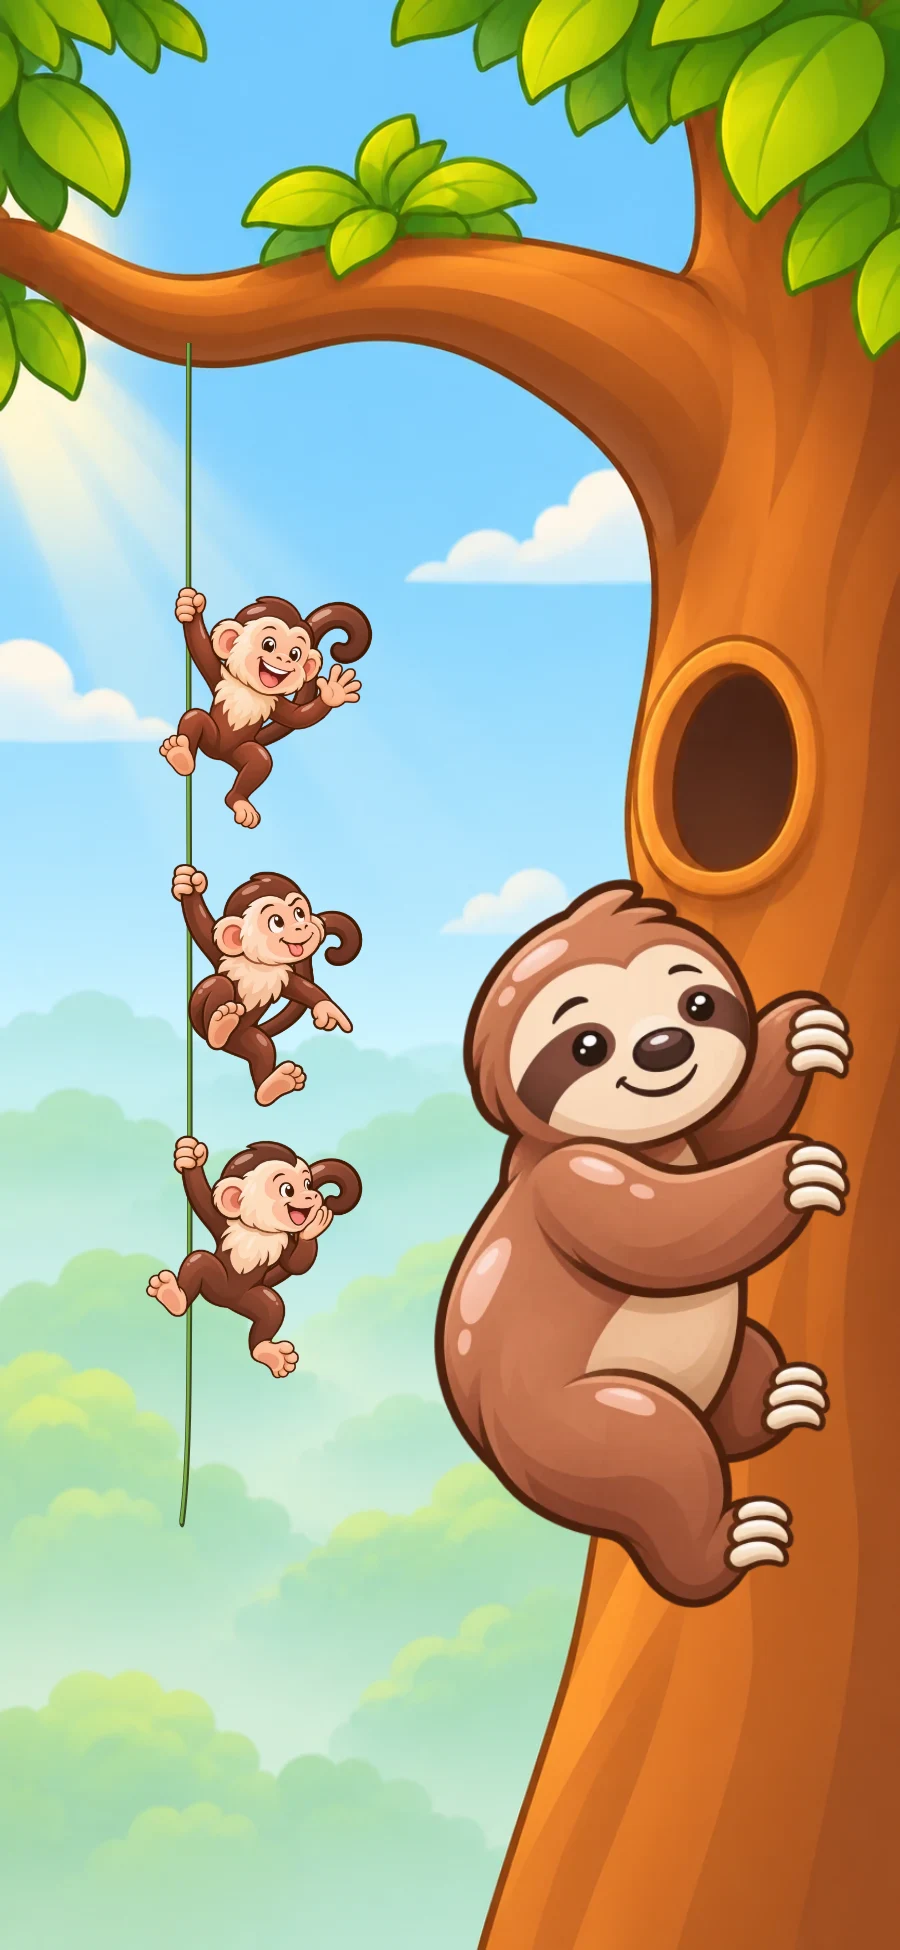
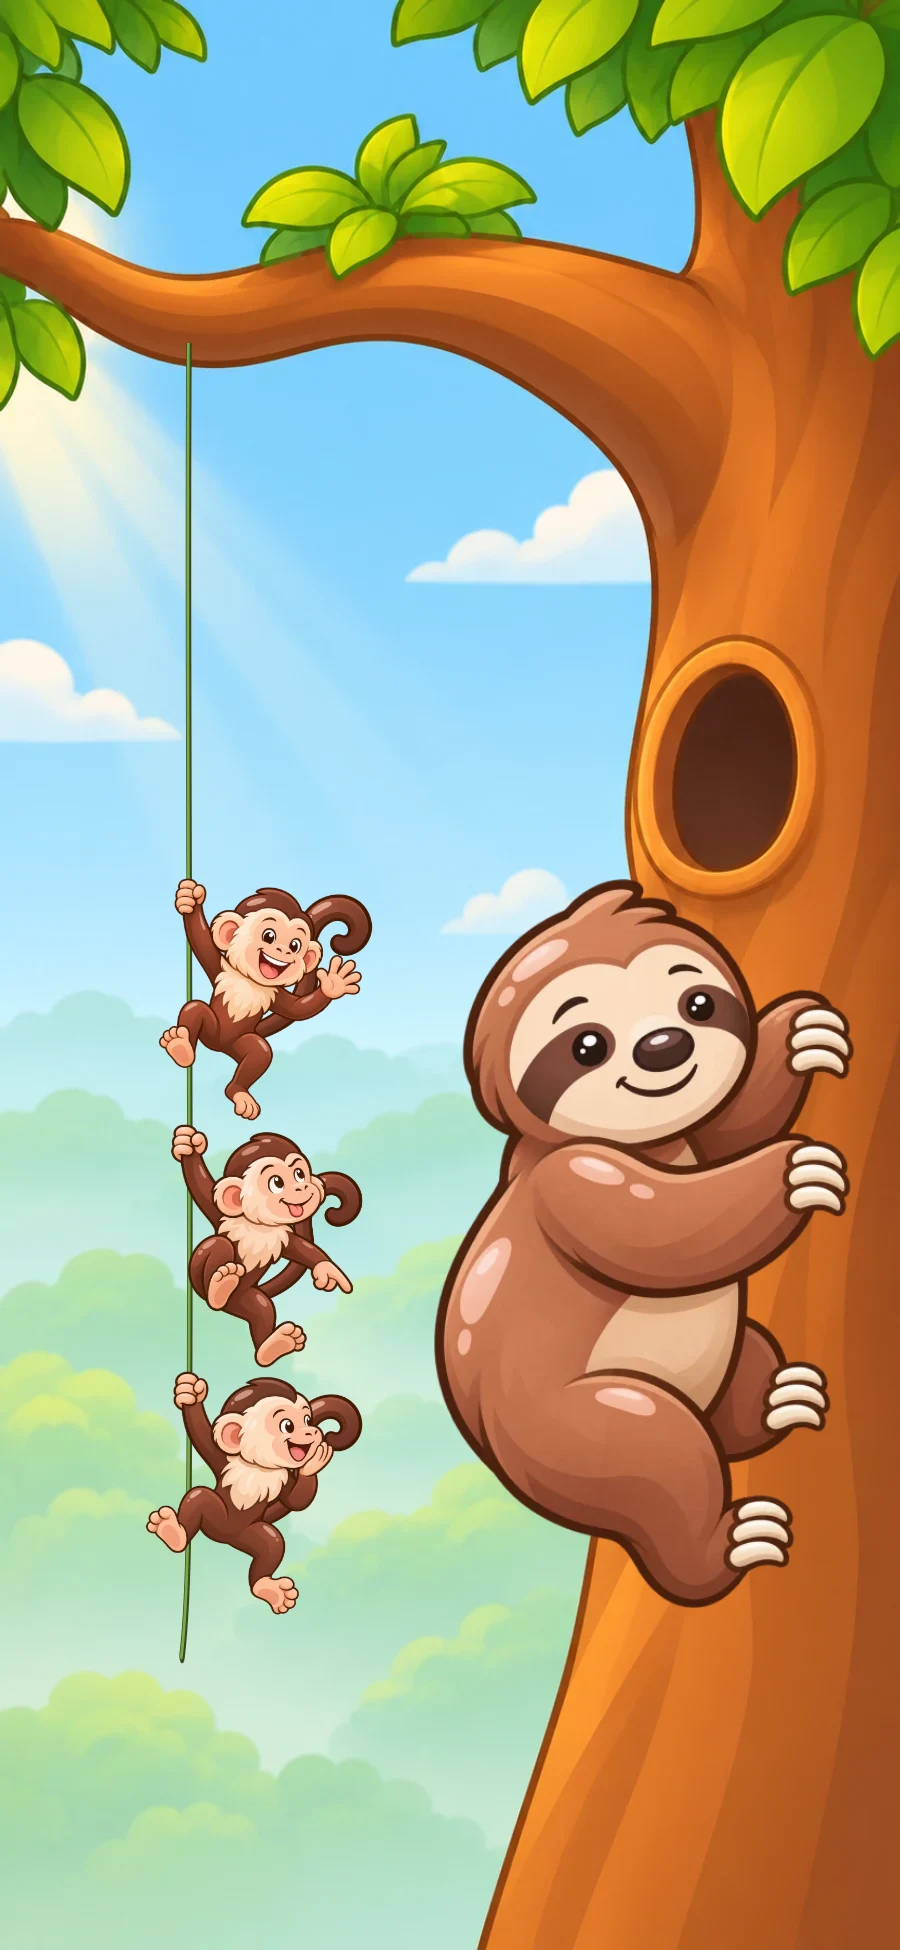
Align Jungle monkeys with sloth and add a paw wave

Changed region(s): [[0.1556, 0.2769, 0.4356, 0.8615]]

diff --git a/anim/home-jungle.css b/anim/home-jungle.css
@@ -6,17 +6,18 @@
 #home-art :is(.j-vine,.j-stem,.j-monkey,.j-tail,.j-limb,.j-sloth,.j-lid,.j-hollow,.j-snake-slot,.j-tongue) { position: absolute; }
 #home-art .j-art { display: block; width: 100%; }
 #home-art .j-vine {
-  top: 17.6%; height: 61%; left: max(21%, calc((100% - 100dvw) / 2 + 42px));
+  top: 17.6%; height: 68%; left: max(21%, calc((100% - 100dvw) / 2 + 42px));
   transform-origin: top center; animation: jVineSway 6.8s ease-in-out infinite;
 }
 #home-art .j-stem { top: 0; left: -11px; width: 22px; height: 100%; }
 #home-art .j-monkey {
-  top: var(--drop); left: 0; height: var(--j-monkey-height); width: max-content;
-  transform: translate(calc(-1 * var(--grip-x)), calc(-1 * var(--grip-y)));
+  top: calc(27.4cqh + var(--row) * (var(--j-monkey-height) + 3px));
+  left: 0; height: var(--j-monkey-height); width: max-content;
+  transform: translateX(calc(-1 * var(--grip-x)));
 }
-#home-art .j-monkey-a { --drop: 22%; --grip-x: 15%; --grip-y: 8%; --tail-x: 39%; --tail-bottom: 32%; --tail-delay: -.7s; }
-#home-art .j-monkey-b { --drop: 45%; --grip-x: 10%; --grip-y: 6%; --tail-x: 39%; --tail-bottom: 26%; --tail-delay: -2.4s; }
-#home-art .j-monkey-c { --drop: 68%; --grip-x: 23%; --grip-y: 7%; --tail-x: 49%; --tail-bottom: 34%; --tail-delay: -3.6s; }
+#home-art .j-monkey-a { --row: 0; --grip-x: 15%; --grip-y: 8%; --tail-x: 39%; --tail-bottom: 32%; --tail-delay: -.7s; }
+#home-art .j-monkey-b { --row: 1; --grip-x: 10%; --grip-y: 6%; --tail-x: 39%; --tail-bottom: 26%; --tail-delay: -2.4s; }
+#home-art .j-monkey-c { --row: 2; --grip-x: 23%; --grip-y: 7%; --tail-x: 49%; --tail-bottom: 34%; --tail-delay: -3.6s; }
 #home-art .j-swing, #home-art .j-acting {
   position: relative; height: 100%; transform-origin: var(--grip-x) var(--grip-y);
 }
@@ -44,11 +45,25 @@
 }
 
 #home-art .j-sloth {
-  top: 45%; right: max(5%, calc((100% - 100dvw) / 2 + 6px));
-  height: calc(3 * var(--j-monkey-height)); width: max-content; transform-origin: 89% 24%;
+  top: 45%; right: max(5%, calc((100% - 100dvw) / 2 + 17px));
+  height: calc(3 * var(--j-monkey-height)); width: max-content;
 }
 #home-art .j-sloth-pose { position: relative; height: 100%; transform-origin: 89% 24%; animation: jSlothBreath 7.8s ease-in-out infinite; }
 #home-art .j-sloth .j-art { height: 100%; width: auto; }
+/* Both sprites share the same registration. The head and front arm sit over the moving rear arm. */
+#home-art .j-sloth-grip { position: relative; }
+#home-art .j-sloth-wave {
+  position: absolute; top: 0; left: 0; height: 100%; width: auto; opacity: 0;
+  transform-origin: 70% 36%;
+  clip-path: polygon(73% 0,100% 0,100% 36%,79% 36%,57% 41%,59.7% 36%,
+    64% 33%,68% 29%,71.4% 25%,72.8% 21%);
+}
+#home-art .j-sloth[data-waving] .j-sloth-wave { opacity: 1; }
+#home-art .j-sloth[data-waving] .j-sloth-grip {
+  clip-path: polygon(0 0,100% 0,100% 14%,74% 14%,77% 18%,77.5% 22%,77% 25%,
+    74.5% 28%,70.5% 31%,66% 34%,63% 36%,64% 39%,80% 37%,89% 34.8%,100% 34.8%,
+    100% 100%,0 100%);
+}
 #home-art .j-lid {
   width: 10%; height: 6.3%; border-radius: 50%; background: #653927;
   box-shadow: inset 0 -2px #301812; opacity: 0;
@@ -116,9 +131,6 @@
 
 @media (max-height: 740px) and (min-aspect-ratio: 4/9) {
   #home-art[data-scene=jungle] .hs-stage { --j-monkey-height: 10.3cqh; }
-  #home-art .j-monkey-a { --drop: 31%; }
-  #home-art .j-monkey-b { --drop: 51%; }
-  #home-art .j-monkey-c { --drop: 71%; }
 }
 @media (prefers-reduced-motion: reduce) {
   html:not([data-motion=full]) #home-art[data-scene=jungle] * { animation: none; }
